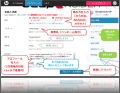
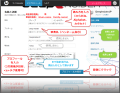
姓名の書き方を日本語と英語で分けて現実仕様に

Changed region(s): [[0.2, 0.129, 0.6, 0.2366]]

diff --git a/index.html b/index.html
@@ -119,12 +119,12 @@ body {
       <td>https://deepinsider.github.io/ProfileChecker/?md5hash={{ profile.md5hash }}</td>
     </tr>
     <tr>
-      <th scope="col">読み方（姓）</th>
-      <td>{{ profile.familyName }}</td>
+      <th scope="col">読み方 （日本語：姓、 英語：Given Name）</th>
+      <td>{{ profile.givenName }}</td>
     </tr>
     <tr>
-      <th scope="col">読み方（名）</th>
-      <td>{{ profile.givenName }}</td>
+      <th scope="col">読み方 （日本語：名、 英語：Family Name）</th>
+      <td>{{ profile.familyName }}</td>
     </tr>
     <tr>
       <th scope="col">著者名／ペンネーム</th>
@@ -171,7 +171,7 @@ body {
 <hr>
 
 <div class="linebox da-writer">
-<h4>{{ profile.writerName }}（{{ profile.familyName }} {{ profile.givenName }}）</h4>
+<h4>{{ profile.writerName }}（{{ profile.givenName }} {{ profile.familyName }}）</h4>
 <div class="box-inner" style="min-height: 200px;">
 <div class="da-image da-leftfloat" style="width: 160px; border: 0;">
 <div class="da-image-one"><img v-attr="src: profile.avatar160" alt="{{ profile.writerName }}（{{ profile.familyName }} {{ profile.givenName }}）" border="0" class="da-image-screen roundface"></div>
